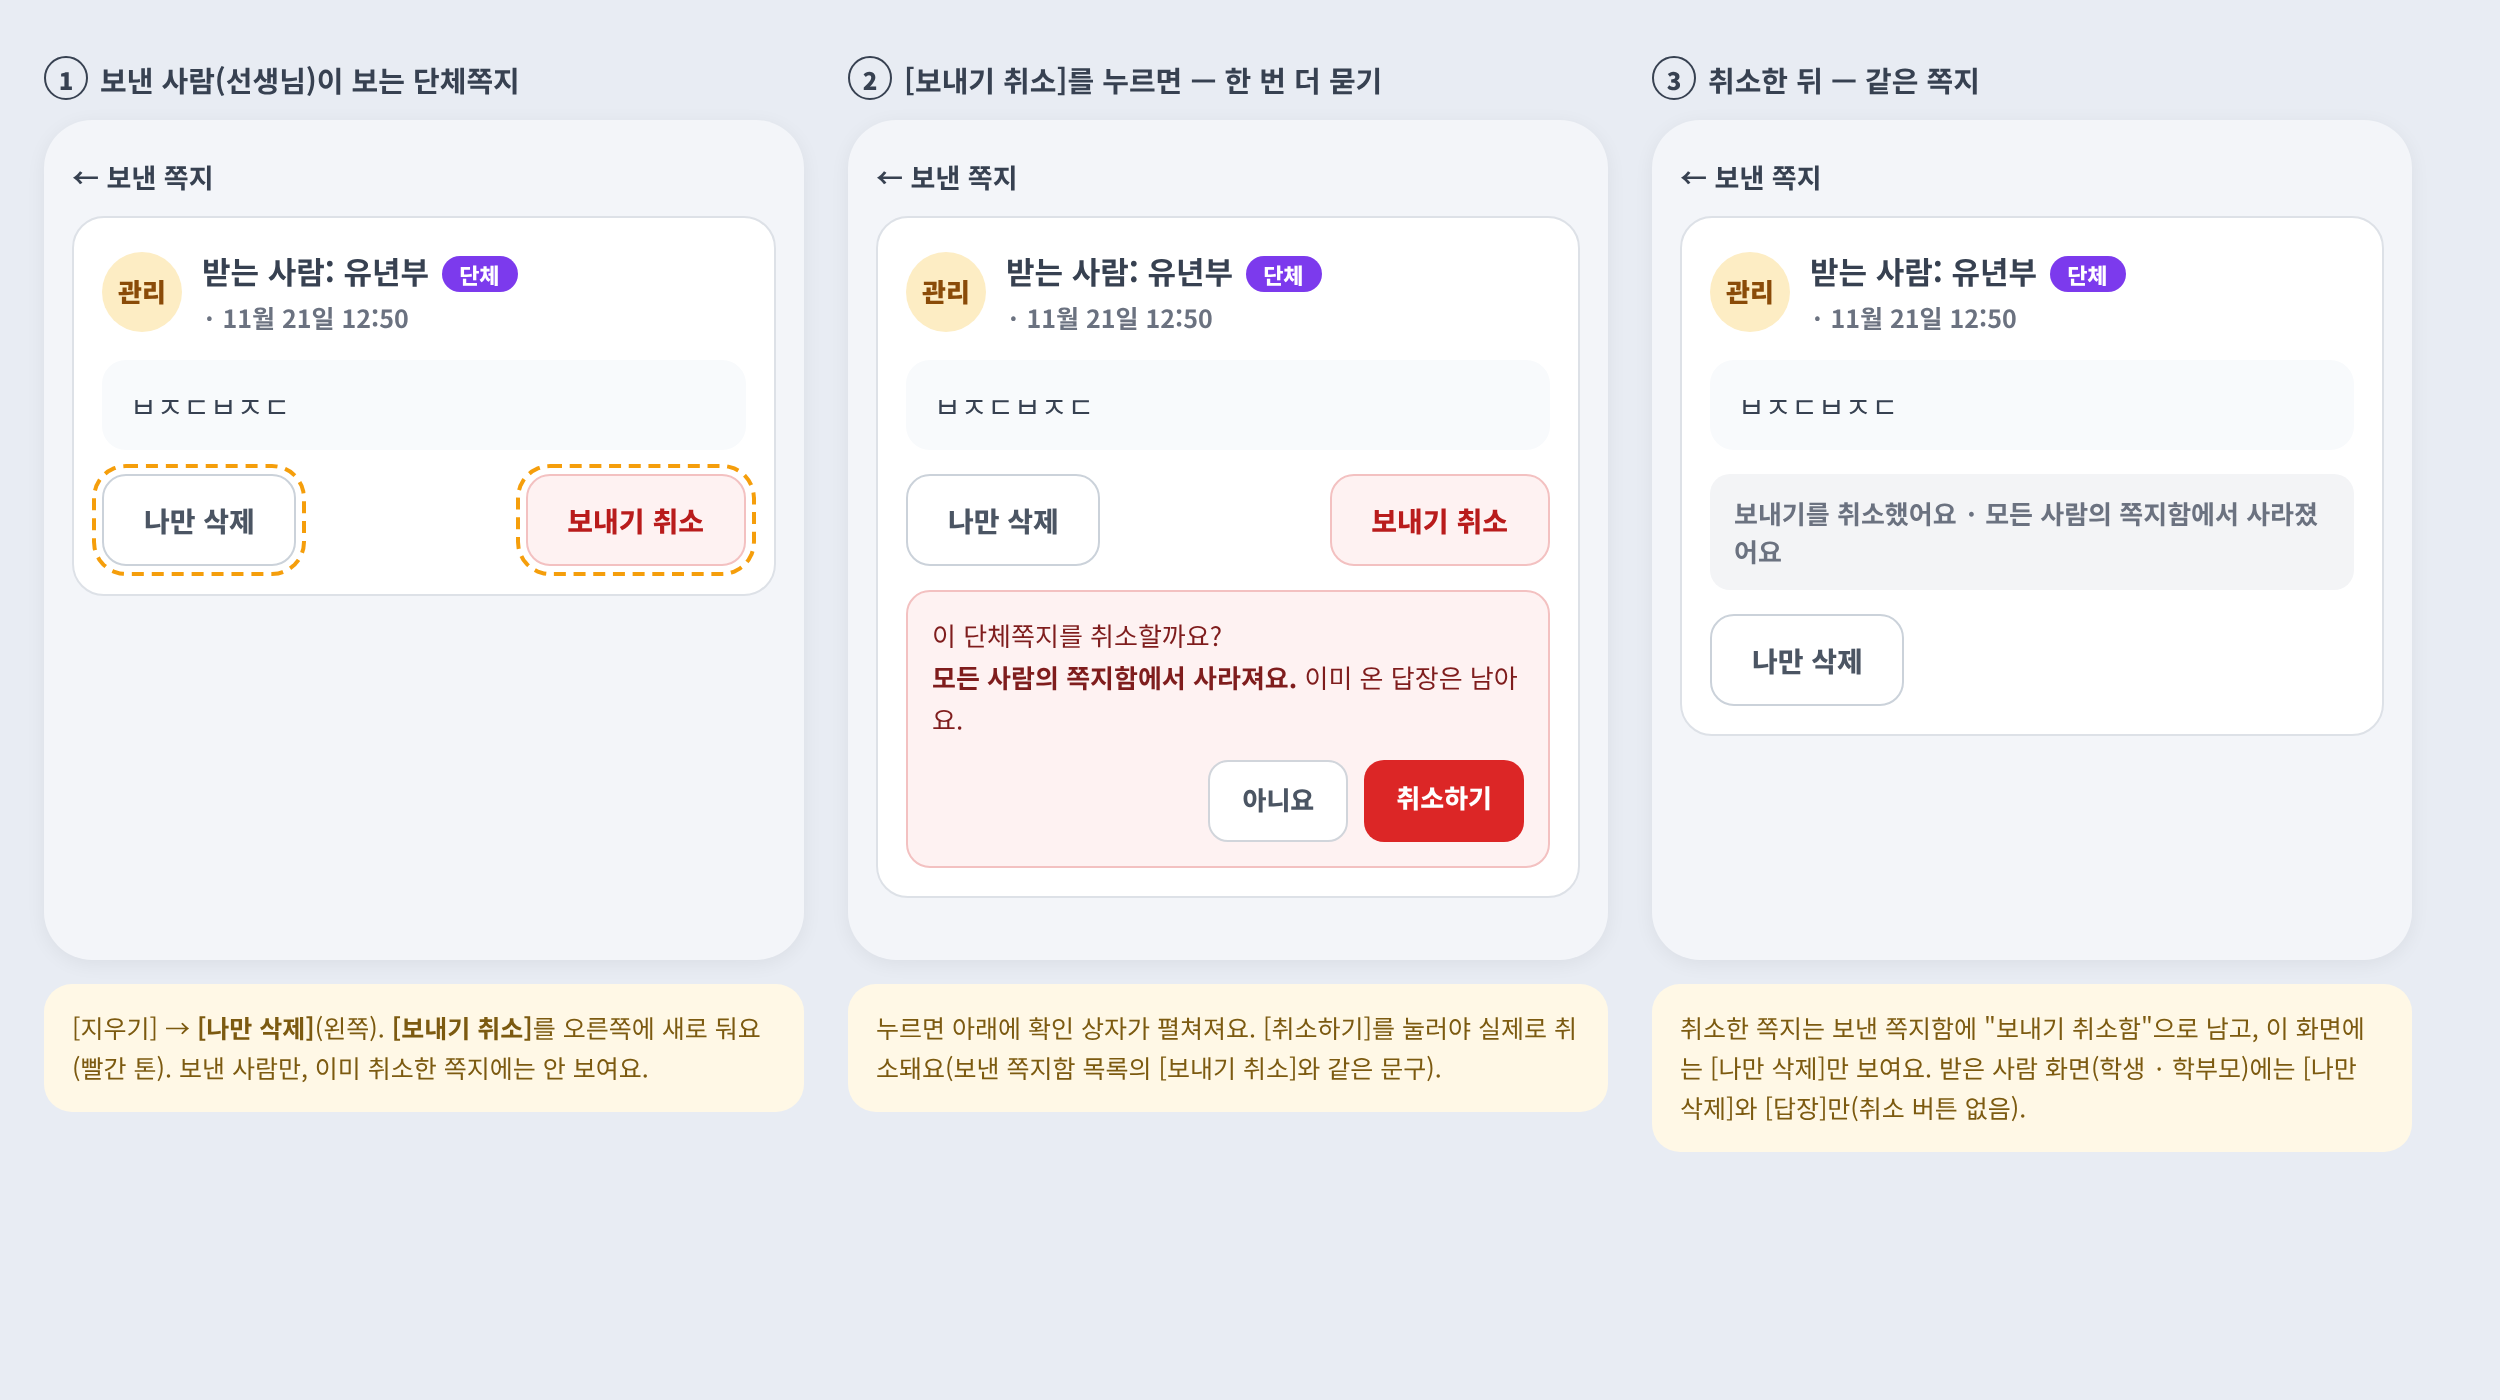
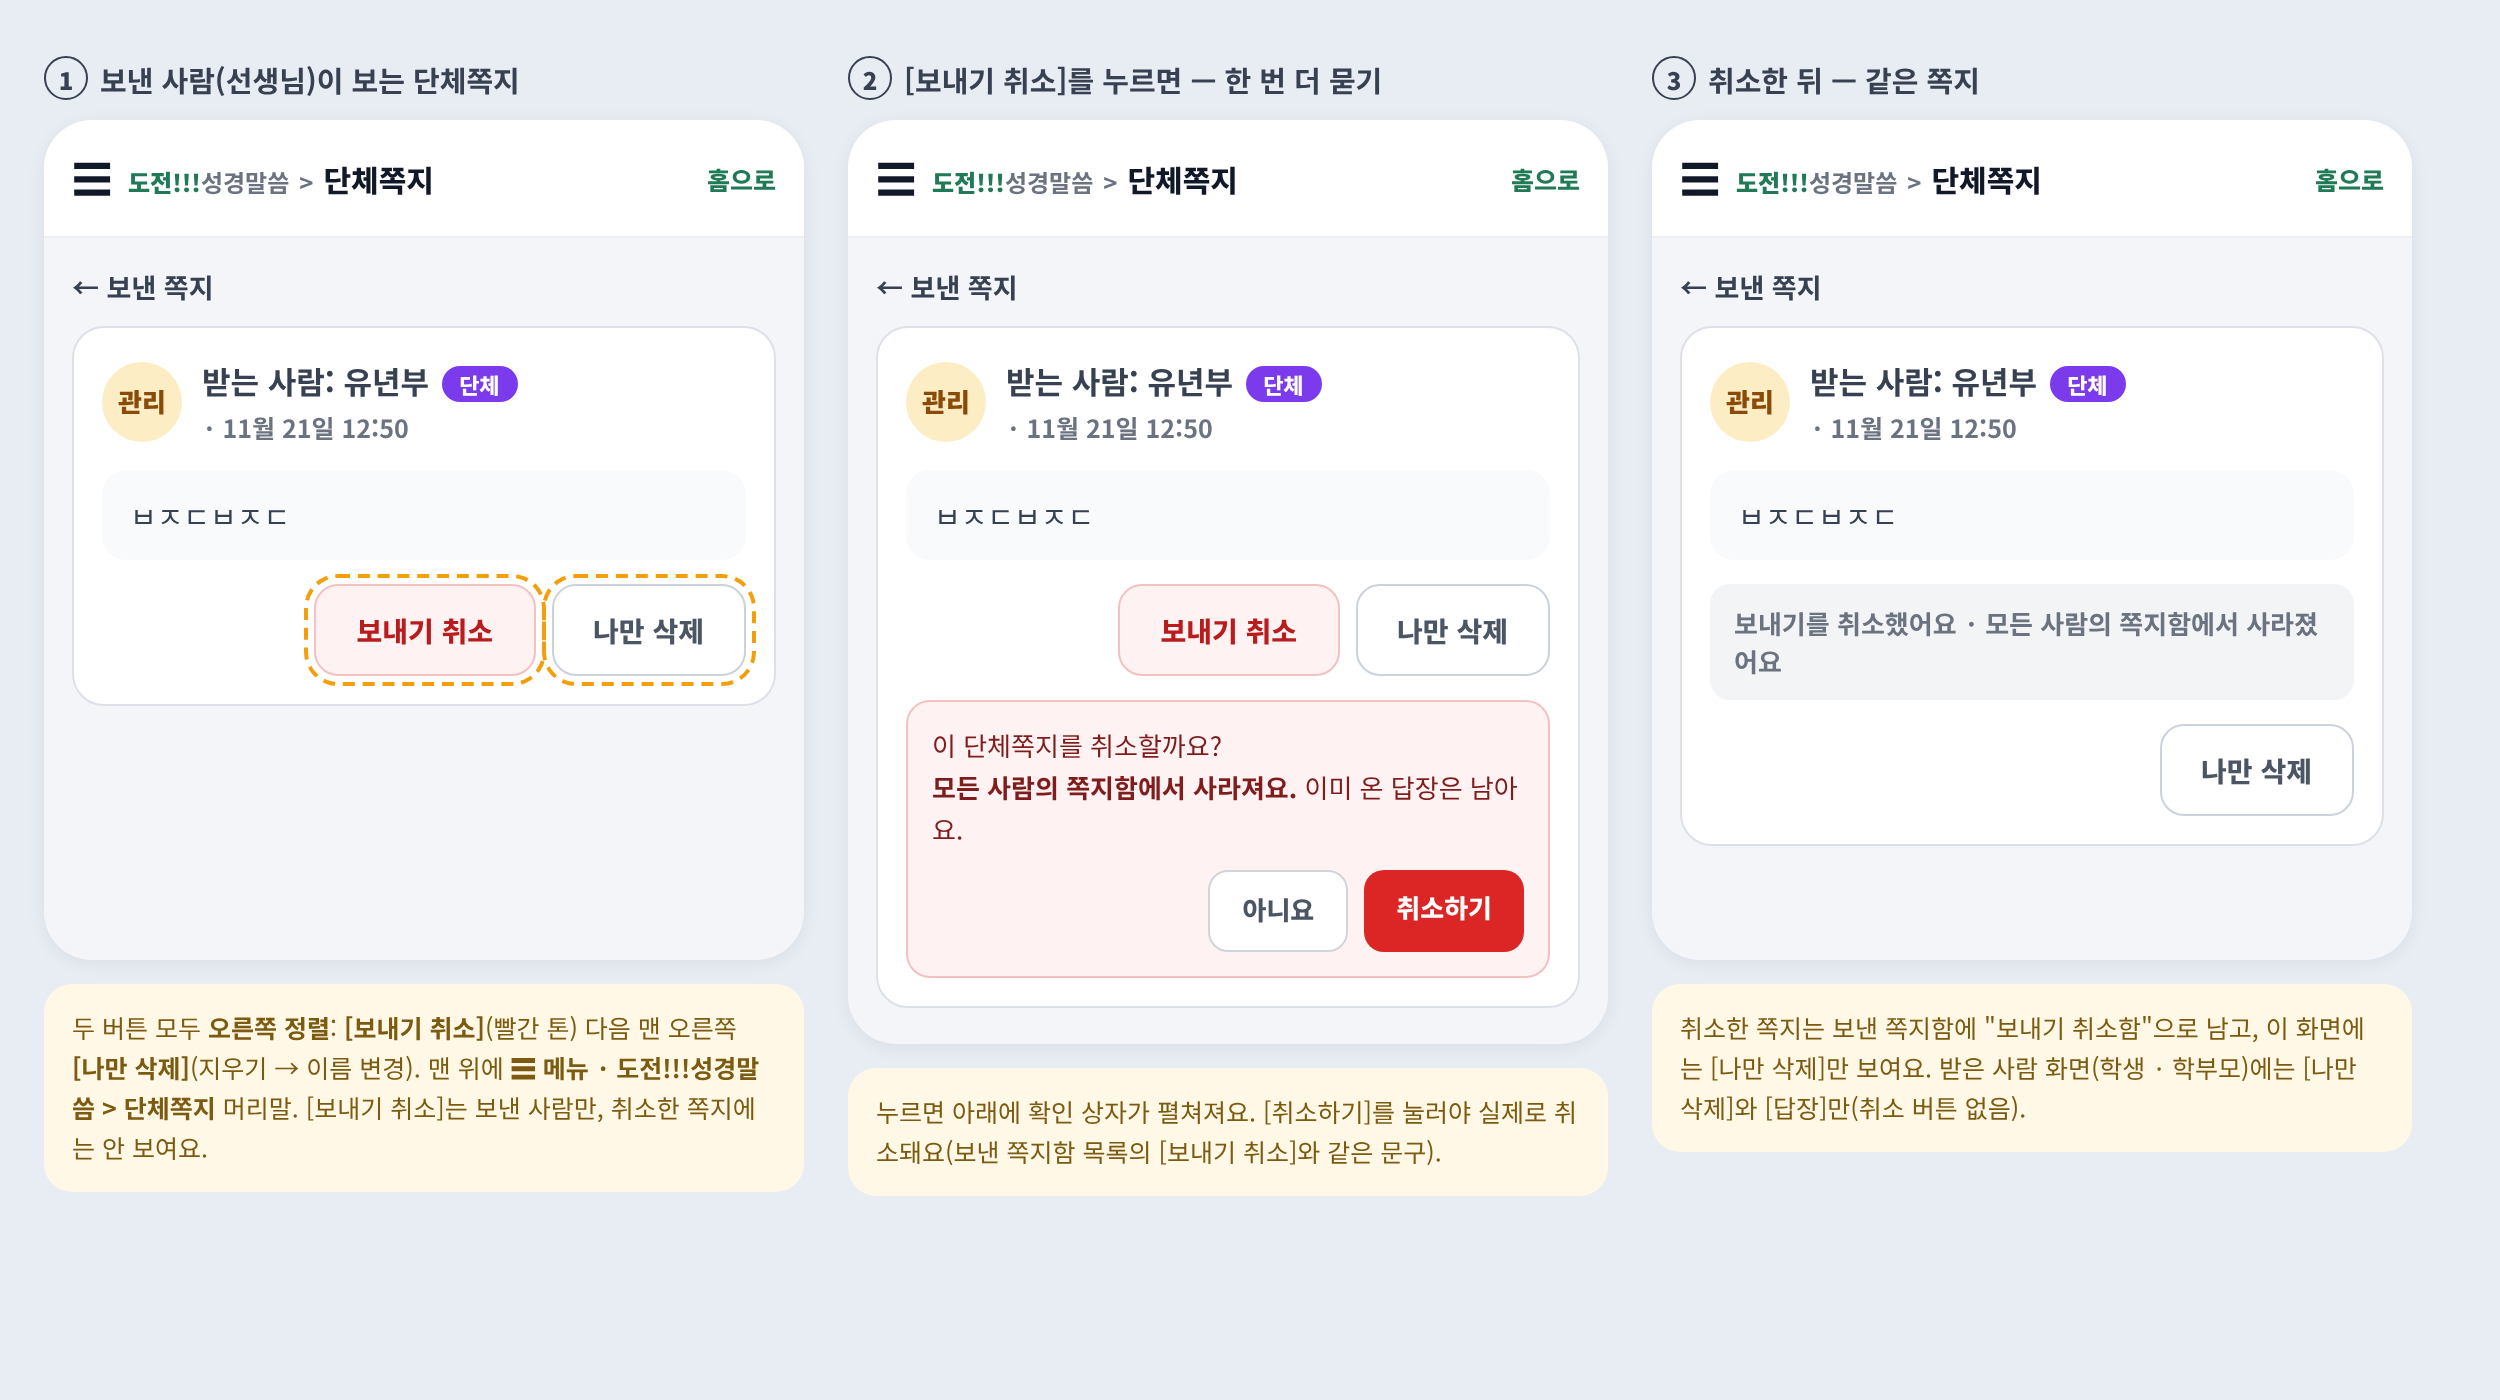
시안: 쪽지 읽기 — 나만 삭제 오른쪽 · ☰ 머리말
Claude-Session: https://claude.ai/code/session_01U98pcojUjGDGBhhB8RrrF7

diff --git a/docs/design/시안/src/쪽지읽기-취소-시안.html b/docs/design/시안/src/쪽지읽기-취소-시안.html
@@ -8,12 +8,14 @@
 .ph{background:#F3F5F9;border-radius:24px;overflow:hidden;min-height:420px;box-shadow:0 2px 10px rgba(0,0,0,.06);padding:18px 14px}
 .note{margin-top:12px;padding:12px 14px;border-radius:14px;background:#FFF8E6;font-size:12.5px;line-height:1.6;color:#7C5A10}
 .bk{font-size:13.5px;font-weight:700;color:#374151;margin:0 0 10px}
+.top{display:flex;align-items:center;gap:8px;margin:-18px -14px 14px;padding:14px;background:#fff;border-bottom:1px solid #EEF0F4}.top .m{font-size:20px;color:#111827}
+.top .t{flex:1;display:flex;gap:5px;align-items:baseline;white-space:nowrap}.top .t span{font-size:12px;font-weight:700;color:#6B7280}.top .t em{font-style:normal;font-weight:900;color:#1F7A55}.top .t b{font-size:15px;font-weight:800;color:#111827}.top .h{font-size:12.5px;font-weight:800;color:#1F7A55}
 .card{background:#fff;border:1px solid #DDE1E7;border-radius:16px;padding:14px}
 .hd{display:flex;gap:10px;align-items:center}.av{width:40px;height:40px;border-radius:50%;background:#FDEDC4;display:grid;place-items:center;font-weight:900;color:#8A4B08;font-size:13px;flex:none}
 .hd b{font-size:15.5px;color:#374151}.bc{display:inline-block;margin-left:6px;padding:1px 9px;border-radius:99px;background:#7C3AED;color:#fff;font-size:11px;font-weight:800}
 .hd small{display:block;margin-top:2px;font-size:12.5px;font-weight:700;color:#6B7280}
 .bd{margin-top:12px;padding:12px 14px;border-radius:12px;background:#F8FAFC;font-size:14.5px;color:#374151}
-.acts{display:flex;justify-content:space-between;align-items:center;gap:10px;margin-top:12px}
+.acts{display:flex;justify-content:flex-end;align-items:center;gap:8px;margin-top:12px}
 .bt{padding:12px 20px;border-radius:12px;border:1px solid #CBD2DA;background:#fff;font-size:14px;font-weight:800;color:#4B5563}
 .bt.x{border-color:#F3C1C1;background:#FEF2F2;color:#B91C1C}
 .new{outline:2px dashed #F59E0B;outline-offset:3px}
@@ -24,25 +26,28 @@
 </style></head><body><div class="row">
 
 <div class="col"><p class="lab"><b>1</b>보낸 사람(선생님)이 보는 단체쪽지</p><div class="ph">
+ <div class="top"><span class="m">☰</span><div class="t"><span><em>도전!!!</em>성경말씀</span><span>&gt;</span><b>단체쪽지</b></div><span class="h">홈으로</span></div>
  <p class="bk">← 보낸 쪽지</p>
  <div class="card"><div class="hd"><div class="av">관리</div><div><b>받는 사람: 유년부<span class="bc">단체</span></b><small>· 11월 21일 12:50</small></div></div>
   <div class="bd">ㅂㅈㄷㅂㅈㄷ</div>
-  <div class="acts"><span class="bt new">나만 삭제</span><span class="bt x new">보내기 취소</span></div></div>
-</div><div class="note">[지우기] → <b>[나만 삭제]</b>(왼쪽). <b>[보내기 취소]</b>를 오른쪽에 새로 둬요(빨간 톤). 보낸 사람만, 이미 취소한 쪽지에는 안 보여요.</div></div>
+  <div class="acts"><span class="bt x new">보내기 취소</span><span class="bt new">나만 삭제</span></div></div>
+</div><div class="note">두 버튼 모두 <b>오른쪽 정렬</b>: <b>[보내기 취소]</b>(빨간 톤) 다음 맨 오른쪽 <b>[나만 삭제]</b>(지우기 → 이름 변경). 맨 위에 <b>☰ 메뉴 · 도전!!!성경말씀 &gt; 단체쪽지</b> 머리말. [보내기 취소]는 보낸 사람만, 취소한 쪽지에는 안 보여요.</div></div>
 
 <div class="col"><p class="lab"><b>2</b>[보내기 취소]를 누르면 — 한 번 더 묻기</p><div class="ph">
+ <div class="top"><span class="m">☰</span><div class="t"><span><em>도전!!!</em>성경말씀</span><span>&gt;</span><b>단체쪽지</b></div><span class="h">홈으로</span></div>
  <p class="bk">← 보낸 쪽지</p>
  <div class="card"><div class="hd"><div class="av">관리</div><div><b>받는 사람: 유년부<span class="bc">단체</span></b><small>· 11월 21일 12:50</small></div></div>
   <div class="bd">ㅂㅈㄷㅂㅈㄷ</div>
-  <div class="acts"><span class="bt">나만 삭제</span><span class="bt x">보내기 취소</span></div>
+  <div class="acts"><span class="bt x">보내기 취소</span><span class="bt">나만 삭제</span></div>
   <div class="cf">이 단체쪽지를 취소할까요?<br><b>모든 사람의 쪽지함에서 사라져요.</b> 이미 온 답장은 남아요.<div class="r"><span class="no">아니요</span><span class="yes">취소하기</span></div></div></div>
 </div><div class="note">누르면 아래에 확인 상자가 펼쳐져요. [취소하기]를 눌러야 실제로 취소돼요(보낸 쪽지함 목록의 [보내기 취소]와 같은 문구).</div></div>
 
 <div class="col"><p class="lab"><b>3</b>취소한 뒤 — 같은 쪽지</p><div class="ph">
+ <div class="top"><span class="m">☰</span><div class="t"><span><em>도전!!!</em>성경말씀</span><span>&gt;</span><b>단체쪽지</b></div><span class="h">홈으로</span></div>
  <p class="bk">← 보낸 쪽지</p>
  <div class="card"><div class="hd"><div class="av">관리</div><div><b>받는 사람: 유년부<span class="bc">단체</span></b><small>· 11월 21일 12:50</small></div></div>
   <div class="bd">ㅂㅈㄷㅂㅈㄷ</div>
   <div class="gone">보내기를 취소했어요 · 모든 사람의 쪽지함에서 사라졌어요</div>
-  <div class="acts"><span class="bt">나만 삭제</span><span></span></div></div>
+  <div class="acts"><span class="bt">나만 삭제</span></div></div>
 </div><div class="note">취소한 쪽지는 보낸 쪽지함에 "보내기 취소함"으로 남고, 이 화면에는 [나만 삭제]만 보여요. 받은 사람 화면(학생 · 학부모)에는 [나만 삭제]와 [답장]만(취소 버튼 없음).</div></div>
 </div></body></html>
